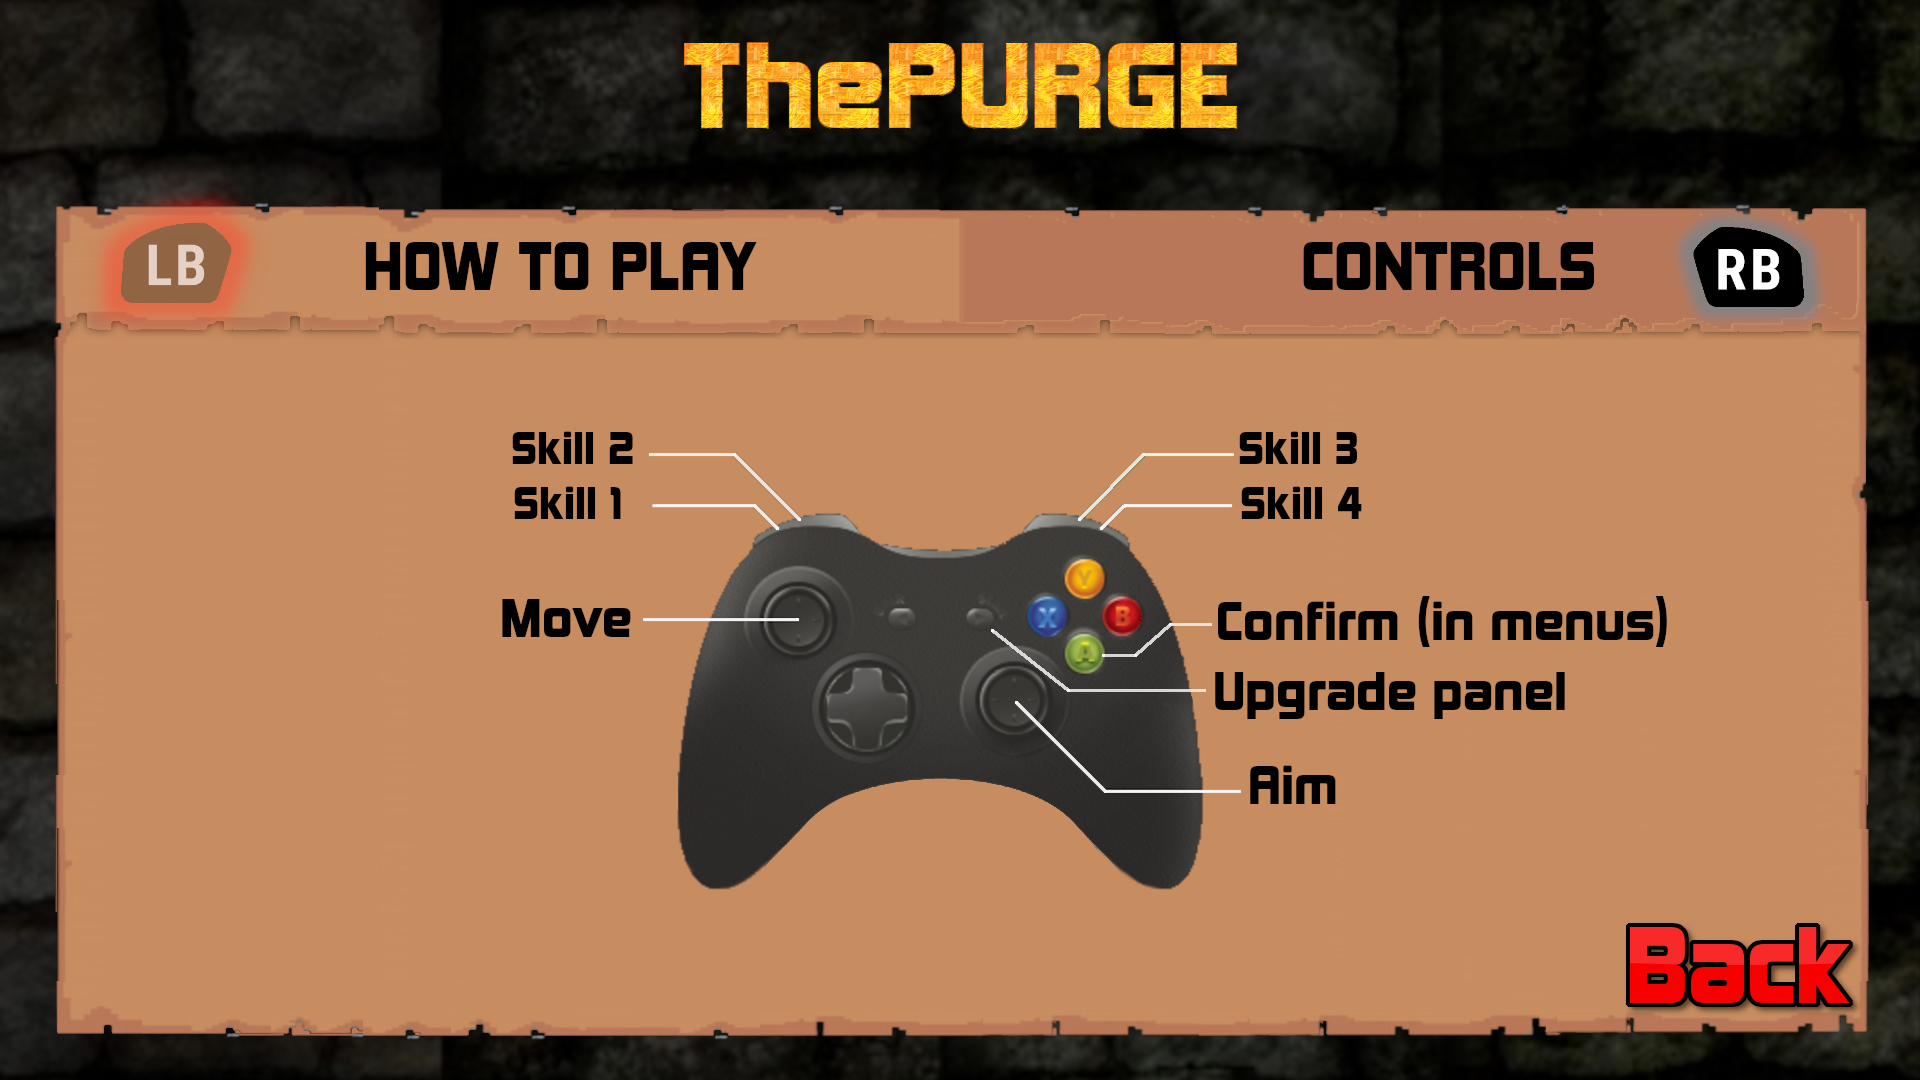
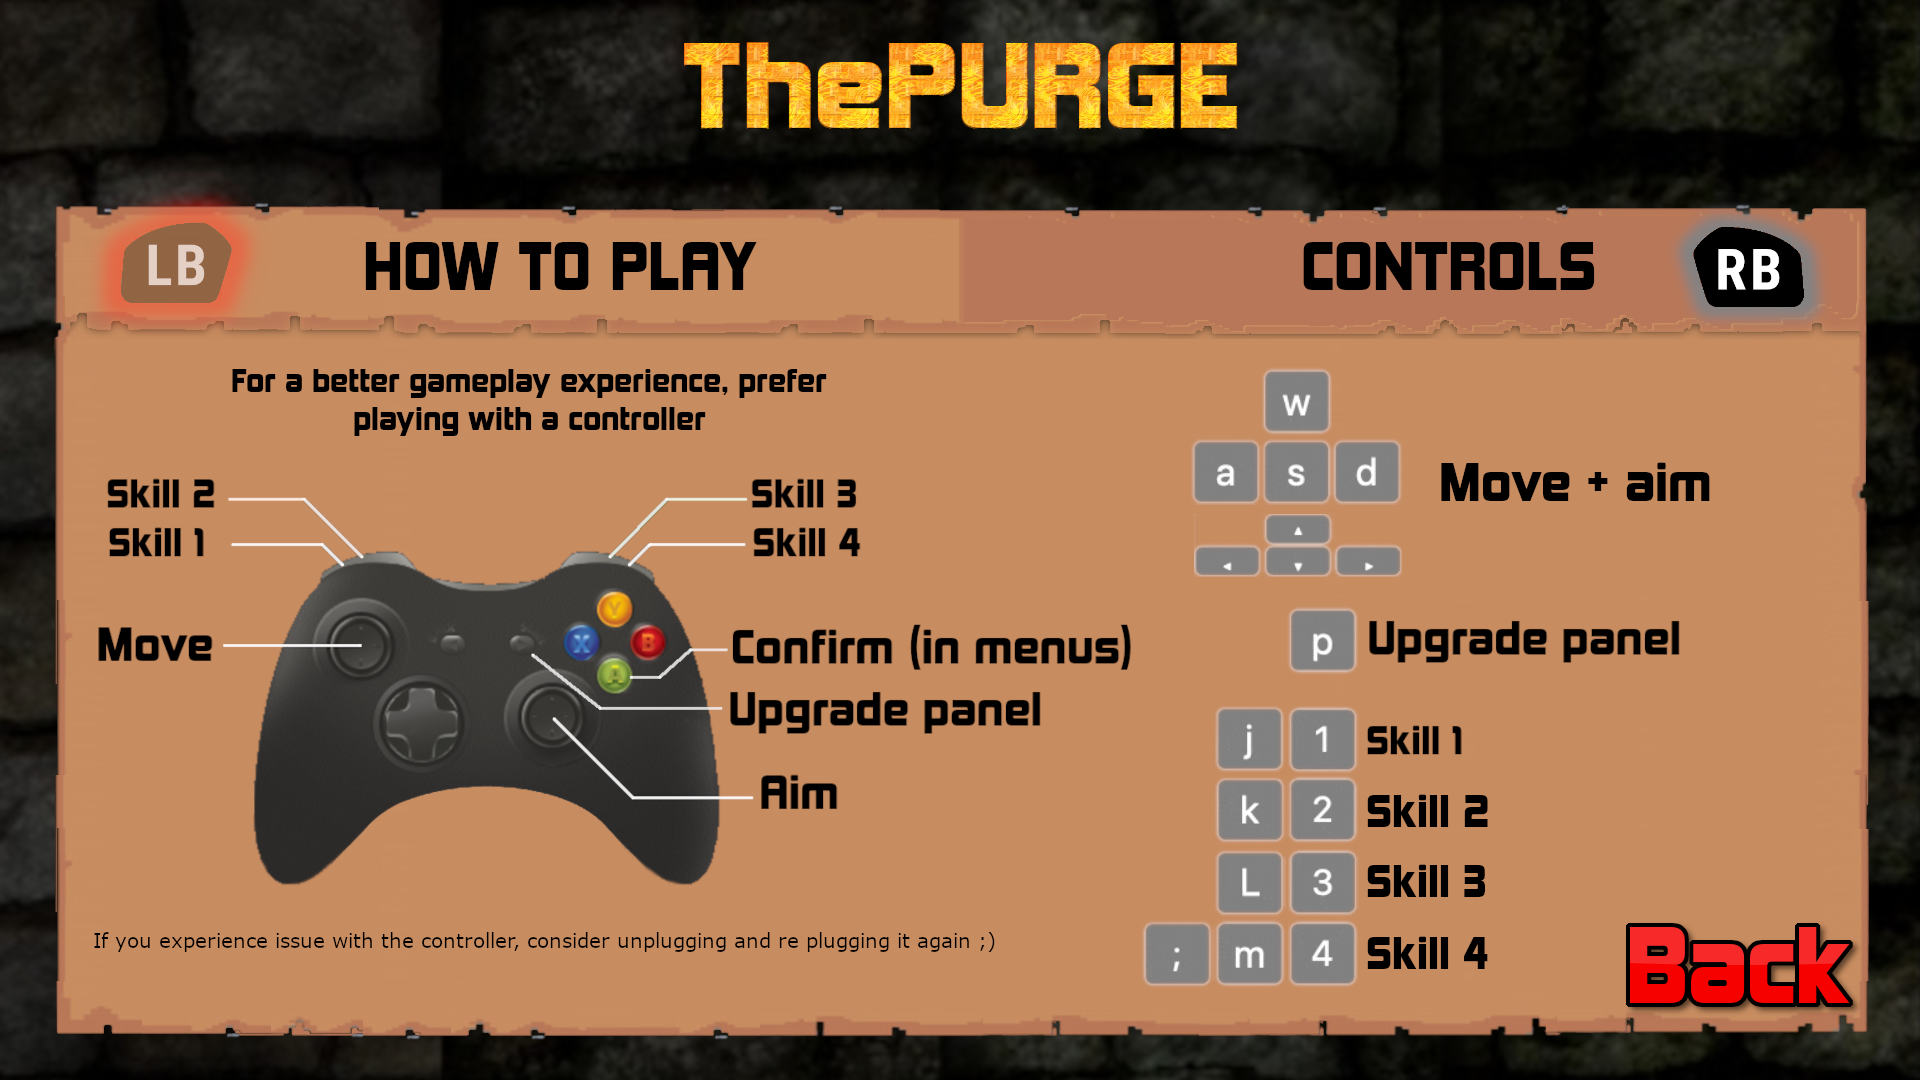
Feat/keyboard binds rework (#160)
* Fixed errors in spell descriptions

* Reworked keyboard binds to be intuitive

* Fixed keyboard movement when releasing and pressing keys controlling same axis during the same frame

* Added keyboard controls to howtoplay menu

Changed region(s): [[0.0312, 0.3361, 0.9062, 0.9167], [0.0625, 0.8556, 0.5, 0.8861], [0.0312, 0.4278, 0.1562, 0.5194]]

diff --git a/src/Application/src/GameLogic.cpp b/src/Application/src/GameLogic.cpp
@@ -129,7 +129,16 @@ auto game::GameLogic::slots_on_event(entt::registry &world, const engine::Event 
             return std::find_if(map.begin(), map.end(), [&k](auto &i) { return i.key == k; })->id;
 
         } else { // todo : should be engine::Keyboard::Key
-            const auto map = std::to_array<SpellMap>({{GLFW_KEY_U, 0}, {GLFW_KEY_Y, 1}, {GLFW_KEY_T, 2}, {GLFW_KEY_R, 3}});
+            const auto map = std::to_array<SpellMap>(
+                {{GLFW_KEY_J, 0},
+                 {GLFW_KEY_1, 0},
+                 {GLFW_KEY_2, 2},
+                 {GLFW_KEY_K, 2},
+                 {GLFW_KEY_3, 3},
+                 {GLFW_KEY_L, 3},
+                 {GLFW_KEY_M, 1},
+                 {GLFW_KEY_4, 1},
+                 {GLFW_KEY_SEMICOLON, 1}});
             return std::find_if(map.begin(), map.end(), [&k](auto &i) { return i.key == k; })->id;
         }
     };
@@ -140,18 +149,29 @@ auto game::GameLogic::slots_on_event(entt::registry &world, const engine::Event 
         engine::overloaded{
             [&](const engine::Pressed<engine::Key> &key) {
                 switch (key.source.key) {
-                case GLFW_KEY_K: onMovement.publish(world, player, Direction::DOWN, true); break;
-                case GLFW_KEY_L: onMovement.publish(world, player, Direction::RIGHT, true); break;
-                case GLFW_KEY_J: onMovement.publish(world, player, Direction::LEFT, true); break;
-                case GLFW_KEY_I: onMovement.publish(world, player, Direction::UP, true); break;
+                case GLFW_KEY_DOWN:
+                case GLFW_KEY_S: onMovement.publish(world, player, Direction::DOWN, true); break;
+                case GLFW_KEY_RIGHT:
+                case GLFW_KEY_D: onMovement.publish(world, player, Direction::RIGHT, true); break;
+                case GLFW_KEY_LEFT:
+                case GLFW_KEY_Q:
+                case GLFW_KEY_A: onMovement.publish(world, player, Direction::LEFT, true); break;
+                case GLFW_KEY_UP:
+                case GLFW_KEY_Z:
+                case GLFW_KEY_W: onMovement.publish(world, player, Direction::UP, true); break;
                 case GLFW_KEY_P: {
                     m_game.setMenu(std::make_unique<menu::UpgradePanel>());
                 } break;
 
-                case GLFW_KEY_U:
-                case GLFW_KEY_Y:
-                case GLFW_KEY_R:
-                case GLFW_KEY_T: {
+                case GLFW_KEY_SEMICOLON:
+                case GLFW_KEY_1:
+                case GLFW_KEY_2:
+                case GLFW_KEY_3:
+                case GLFW_KEY_4:
+                case GLFW_KEY_J:
+                case GLFW_KEY_K:
+                case GLFW_KEY_L:
+                case GLFW_KEY_M: {
                     const auto id = spell_map(key.source.key);
 
                     auto &spell = world.get<SpellSlots>(player).spells[id];
@@ -165,10 +185,16 @@ auto game::GameLogic::slots_on_event(entt::registry &world, const engine::Event 
             },
             [&](const engine::Released<engine::Key> &key) {
                 switch (key.source.key) {
-                case GLFW_KEY_I: onMovement.publish(world, player, Direction::UP, false); break;
-                case GLFW_KEY_K: onMovement.publish(world, player, Direction::DOWN, false); break;
-                case GLFW_KEY_L: onMovement.publish(world, player, Direction::RIGHT, false); break;
-                case GLFW_KEY_J: onMovement.publish(world, player, Direction::LEFT, false); break;
+                case GLFW_KEY_DOWN:
+                case GLFW_KEY_S: onMovement.publish(world, player, Direction::DOWN, false); break;
+                case GLFW_KEY_RIGHT:
+                case GLFW_KEY_D: onMovement.publish(world, player, Direction::RIGHT, false); break;
+                case GLFW_KEY_LEFT:
+                case GLFW_KEY_Q:
+                case GLFW_KEY_A: onMovement.publish(world, player, Direction::LEFT, false); break;
+                case GLFW_KEY_UP:
+                case GLFW_KEY_Z:
+                case GLFW_KEY_W: onMovement.publish(world, player, Direction::UP, false); break;
                 default: return;
                 }
             },
@@ -300,7 +326,7 @@ auto game::GameLogic::slots_check_floor_change(entt::registry &world, const engi
         });
 }
 
-auto game::GameLogic::slots_check_animation_attack_status(entt::registry& world, const engine::TimeElapsed&) -> void
+auto game::GameLogic::slots_check_animation_attack_status(entt::registry &world, const engine::TimeElapsed &) -> void
 {
     world.view<engine::Spritesheet>(entt::exclude<entt::tag<"spell"_hs>>).each([&](engine::Spritesheet &sprite) {
         if (sprite.current_animation != "attack_left" && sprite.current_animation != "attack_right") return;

diff --git a/src/Application/src/menu/UpgradePanel.cpp b/src/Application/src/menu/UpgradePanel.cpp
@@ -453,8 +453,16 @@ void game::menu::UpgradePanel::event(entt::registry &world, ThePURGE &game, cons
                 return std::find_if(map.begin(), map.end(), [&k](auto &i) { return i.key == k; })->id;
 
             } else { // todo : should be engine::Keyboard::Key
-                const auto map =
-                    std::to_array<SpellMap>({{GLFW_KEY_U, 0}, {GLFW_KEY_Y, 1}, {GLFW_KEY_T, 2}, {GLFW_KEY_R, 3}});
+                const auto map = std::to_array<SpellMap>(
+                    {{GLFW_KEY_J, 0},
+                     {GLFW_KEY_1, 0},
+                     {GLFW_KEY_2, 2},
+                     {GLFW_KEY_K, 2},
+                     {GLFW_KEY_3, 3},
+                     {GLFW_KEY_L, 3},
+                     {GLFW_KEY_M, 1},
+                     {GLFW_KEY_4, 1},
+                     {GLFW_KEY_SEMICOLON, 1}});
                 return std::find_if(map.begin(), map.end(), [&k](auto &i) { return i.key == k; })->id;
             }
         };
@@ -463,10 +471,15 @@ void game::menu::UpgradePanel::event(entt::registry &world, ThePURGE &game, cons
             engine::overloaded{
                 [&](const engine::Pressed<engine::Key> &key) {
                     switch (key.source.key) {
-                    case GLFW_KEY_U:
-                    case GLFW_KEY_Y:
-                    case GLFW_KEY_R:
-                    case GLFW_KEY_T: {
+                    case GLFW_KEY_SEMICOLON:
+                    case GLFW_KEY_1:
+                    case GLFW_KEY_2:
+                    case GLFW_KEY_3:
+                    case GLFW_KEY_4:
+                    case GLFW_KEY_J:
+                    case GLFW_KEY_K:
+                    case GLFW_KEY_L:
+                    case GLFW_KEY_M: {
                         const auto id = spell_map(key.source.key);
 
                         world.get<SpellSlots>(m_player).spells[id] =
@@ -524,7 +537,7 @@ void game::menu::UpgradePanel::event(entt::registry &world, ThePURGE &game, cons
                     holder.instance->setEventMode(engine::Core::EventMode::RECORD);
                     game.setMenu(nullptr);
                     break;
-                case GLFW_KEY_E: onBuyHp(world); break;
+                case GLFW_KEY_Y: onBuyHp(world); break;
                 default: break;
                 }
             },

diff --git a/src/Application/src/GameLogic/collision.cpp b/src/Application/src/GameLogic/collision.cpp
@@ -30,21 +30,24 @@ using namespace std::chrono_literals;
 auto game::GameLogic::slots_move([[maybe_unused]] entt::registry &world, entt::entity &player, const Direction &dir, bool is_pressed)
     -> void
 {
+    auto &movement = world.get<ControllerAxis>(player).keyboard_movement;
+
     switch (dir) {
-    case Direction::UP: world.get<ControllerAxis>(player).movement.y = is_pressed ? 1 : 0.0f; break;
-    case Direction::DOWN: world.get<ControllerAxis>(player).movement.y = is_pressed ? -1 : 0.0f; break;
-    case Direction::RIGHT: world.get<ControllerAxis>(player).movement.x = is_pressed ? 1 : 0.0f; break;
-    case Direction::LEFT: world.get<ControllerAxis>(player).movement.x = is_pressed ? -1 : 0.0f; break;
+    case Direction::UP: movement.y += is_pressed ? 1 : -1; break;
+    case Direction::DOWN: movement.y += is_pressed ? -1 : 1; break;
+    case Direction::RIGHT: movement.x += is_pressed ? 1 : -1; break;
+    case Direction::LEFT: movement.x += is_pressed ? -1 : 1; break;
     default: break;
     }
 
-    const auto &movement = world.get<ControllerAxis>(player).movement;
-    if (glm::length(movement) < 0.01f) return;
+    if (glm::length(movement) < 0.01f) {
+        world.get<ControllerAxis>(player).movement = glm::vec2(0.f, 0.f);
+    } else {
+        const auto &direction = glm::normalize(movement);
 
-    const auto &direction = glm::normalize(movement);
-
-    world.get<ControllerAxis>(player).aiming = direction;
-    world.get<ControllerAxis>(player).movement = direction;
+        world.get<ControllerAxis>(player).aiming = direction;
+        world.get<ControllerAxis>(player).movement = direction;
+    }
 }
 
 auto game::GameLogic::slots_update_player_movement(entt::registry &world, [[maybe_unused]] const engine::TimeElapsed &dt)

diff --git a/src/Application/src/menu/AMenu.cpp b/src/Application/src/menu/AMenu.cpp
@@ -27,11 +27,18 @@ void game::AMenu::onEvent(entt::registry &world, ThePURGE &game, const engine::E
         engine::overloaded{
             [&](const engine::Pressed<engine::Key> &key) {
                 switch (key.source.key) {
+                case GLFW_KEY_W:
+                case GLFW_KEY_Z:
                 case GLFW_KEY_UP: m_up = true; break;
+                case GLFW_KEY_D:
                 case GLFW_KEY_RIGHT: m_right = true; break;
+                case GLFW_KEY_S:
                 case GLFW_KEY_DOWN: m_down = true; break;
+                case GLFW_KEY_Q:
+                case GLFW_KEY_A:
                 case GLFW_KEY_LEFT: m_left = true; break;
                 case GLFW_KEY_ENTER: m_select = true; break;
+                case GLFW_KEY_ESCAPE: m_close = true; break;
                 default: break;
                 }
             },
@@ -53,7 +60,6 @@ void game::AMenu::onEvent(entt::registry &world, ThePURGE &game, const engine::E
 
                     float x = (*joystick)->axes[engine::Joystick::LSX];
                     float y = -(*joystick)->axes[engine::Joystick::LSY];
-                    // spdlog::info("Joystick x : {:.2f}, y : {:.2f}", x, y);
 
                     m_up = !m_recoveringUp && y > kTriggerThreshold;
                     m_recoveringUp = (!m_recoveringUp && m_up) || (m_recoveringUp && y > kRecoveryThreshold);

diff --git a/src/Application/include/component/ControllerAxis.hpp b/src/Application/include/component/ControllerAxis.hpp
@@ -12,6 +12,9 @@ struct ControllerAxis {
 
     glm::vec2 movement;
     glm::vec2 aiming;
+
+    // virtual movement joystick corresponding to keyboard player movement. May not be normalized
+    glm::vec2 keyboard_movement; 
 };
 
 } // namespace game
